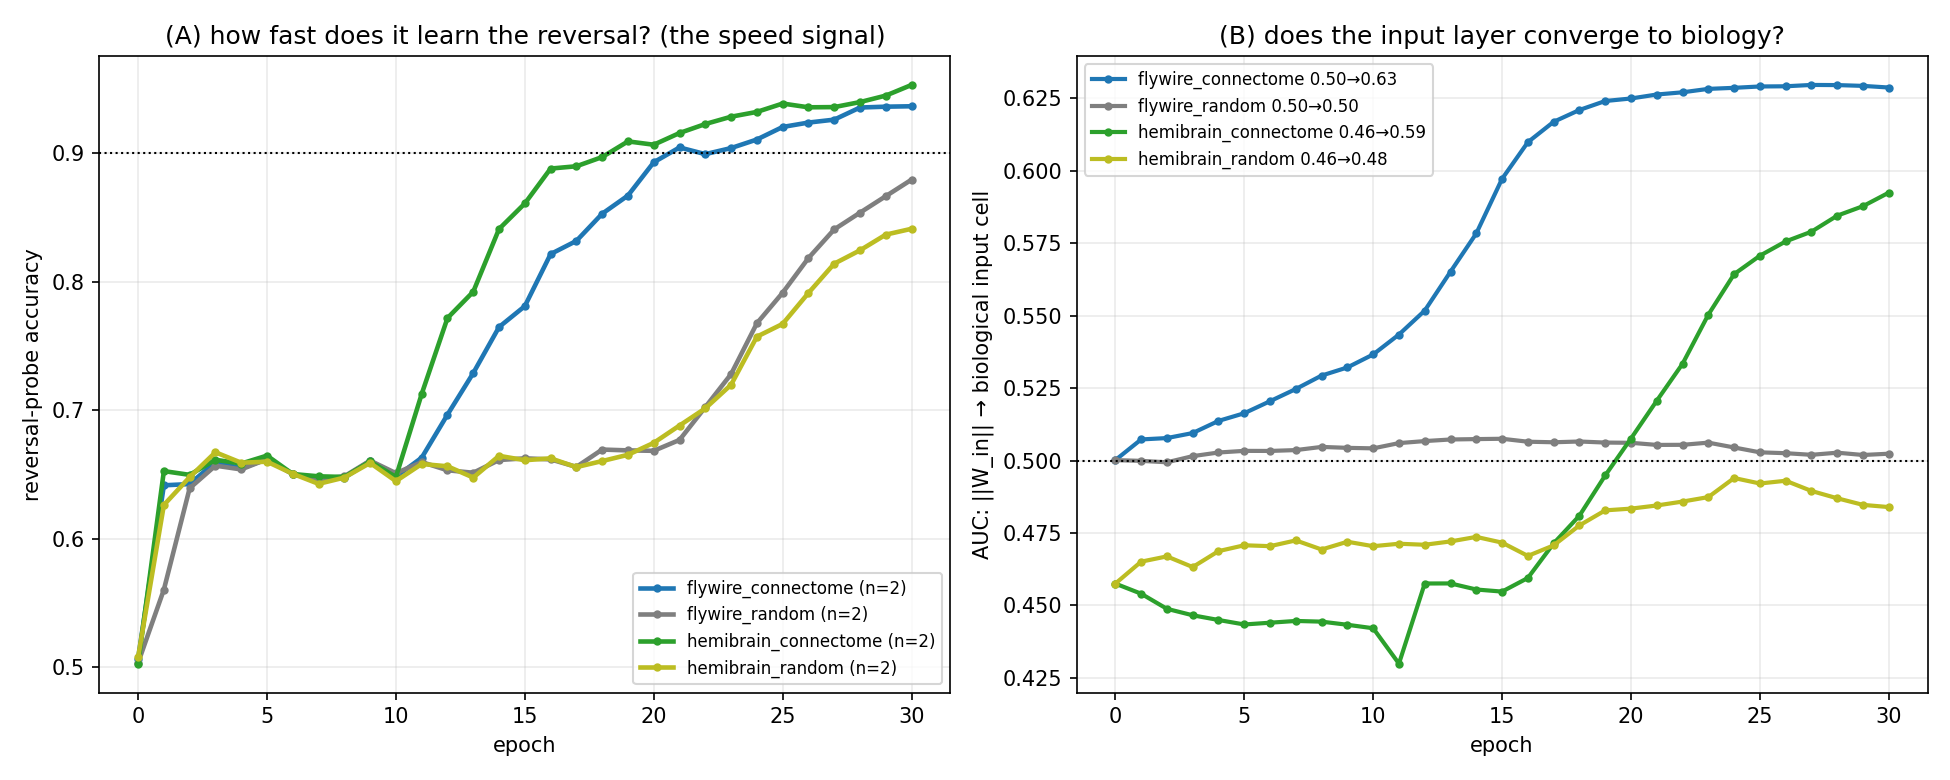
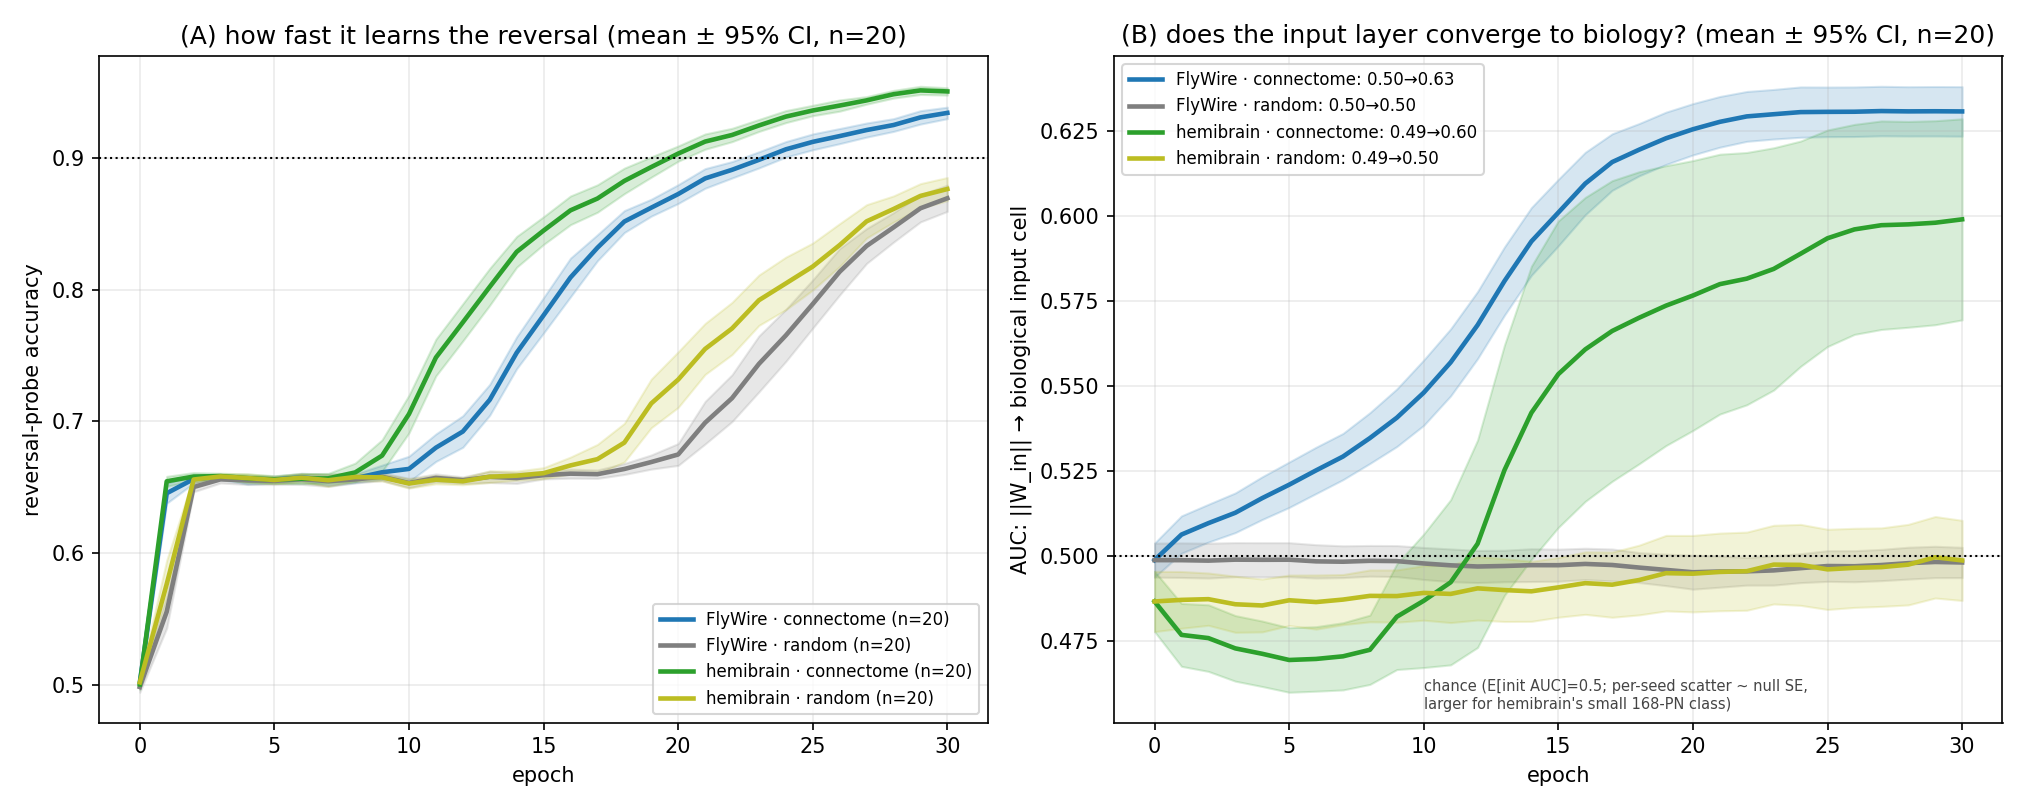
Regenerate native-task convergence figure with 20 seeds + 95% CI bands
Replaces the misleading 2-seed assoc_biology_convergence.png. CI bands make the
init asymmetry legible as noise width, not bias: FlyWire's large 1089-cell class
sits pinned at 0.50, hemibrain's small 168-PN class has ~2.5x wider bands and a
20-seed init of 0.487 (regresses to 0.4996 by 500 seeds). Updates stale 2-seed
'0.46->0.59' text to the 20-seed 0.49->0.60, adds figure caption noting the
class-size variance and the early KC/MBON transient.

Changed region(s): [[0.0308, 0.0308, 0.9846, 0.9846], [0.0, 0.3385, 0.0615, 0.6462], [0.0308, 0.1846, 0.0615, 0.2154]]

diff --git a/scripts/figures/plot_mb_biology_assoc_20seed.py b/scripts/figures/plot_mb_biology_assoc_20seed.py
@@ -1,0 +1,86 @@
+#!/usr/bin/env python3
+"""20-seed version of the MB native-task convergence figure (replaces the 2-seed
+assoc_biology_convergence.png). Mean +/- 95% CI bands over 20 seeds.
+
+(A) reversal-probe accuracy vs epoch (the speed signal) + epochs-to-0.9.
+(B) input-layer AUC (||W_in|| -> biological input cell) vs epoch, with chance line and an
+    honest init-baseline annotation (E[init AUC]=0.5; per-seed scatter ~ null SE).
+
+Reads outputs/runs/mb_biology_assoc_20seed/*.npz. Writes docs/results/mb_biology_convergence/.
+"""
+from __future__ import annotations
+import glob, re
+from collections import defaultdict
+from pathlib import Path
+import numpy as np
+from sklearn.metrics import roc_auc_score
+import matplotlib; matplotlib.use("Agg")
+import matplotlib.pyplot as plt
+
+OUT = Path("docs/results/mb_biology_convergence")
+ORDER = ["flywire_connectome", "flywire_random", "hemibrain_connectome", "hemibrain_random"]
+COL = {"flywire_connectome": "#1f77b4", "flywire_random": "#7f7f7f",
+       "hemibrain_connectome": "#2ca02c", "hemibrain_random": "#bcbd22"}
+LBL = {"flywire_connectome": "FlyWire · connectome", "flywire_random": "FlyWire · random",
+       "hemibrain_connectome": "hemibrain · connectome", "hemibrain_random": "hemibrain · random"}
+
+
+def bio_mask(d):
+    ty = d["coarse_type"].astype(str)
+    return (ty == "PN") if (ty == "PN").sum() > 10 else d["is_sensory"].astype(bool)
+
+
+def main():
+    by = defaultdict(list)
+    for f in sorted(glob.glob("outputs/runs/mb_biology_assoc_20seed/*.npz")):
+        by[re.sub(r"_s\d+$", "", Path(f).stem)].append(np.load(f, allow_pickle=True))
+    if not by:
+        print("no runs"); return 1
+    OUT.mkdir(parents=True, exist_ok=True)
+    order = [c for c in ORDER if c in by]
+    eps = by[order[0]][0]["snapshot_epochs"]
+
+    fig, (axA, axB) = plt.subplots(1, 2, figsize=(13.5, 5.4))
+
+    def mean_ci(M):                                  # M: [nseed, nep]
+        m = M.mean(0); se = M.std(0, ddof=1) / np.sqrt(M.shape[0]); return m, 1.96 * se
+
+    print(f"{'condition':<24}{'n':>3}{'init AUC':>10}{'final AUC':>12}{'epochs->0.9':>13}")
+    for c in order:
+        ds = by[c]; col = COL[c]
+        # (A) reversal accuracy
+        R = np.array([d["reversal_acc"] for d in ds])
+        m, ci = mean_ci(R)
+        axA.plot(eps, m, color=col, lw=2.2, label=f"{LBL[c]} (n={len(ds)})")
+        axA.fill_between(eps, m - ci, m + ci, color=col, alpha=.18)
+        e09 = next((int(eps[i]) for i in range(len(eps)) if m[i] >= 0.9), None)
+        # (B) input AUC trajectory (load each snapshot array once per seed)
+        def auc_traj(d):
+            nrm = np.linalg.norm(d["win_snapshots"], axis=2); b = bio_mask(d)
+            return [roc_auc_score(b, nrm[e]) for e in range(len(eps))]
+        A = np.array([auc_traj(d) for d in ds])
+        am, aci = mean_ci(A)
+        axB.plot(eps, am, color=col, lw=2.2, label=f"{LBL[c]}: {am[0]:.2f}→{am[-1]:.2f}")
+        axB.fill_between(eps, am - aci, am + aci, color=col, alpha=.18)
+        print(f"{c:<24}{len(ds):>3}{am[0]:>10.3f}{am[-1]:>12.3f}{(str(e09) if e09 else 'never'):>13}")
+
+    axA.axhline(0.9, color="k", ls=":", lw=1)
+    axA.set_xlabel("epoch"); axA.set_ylabel("reversal-probe accuracy")
+    axA.set_title("(A) how fast it learns the reversal (mean ± 95% CI, n=20)")
+    axA.legend(fontsize=8, loc="lower right"); axA.grid(alpha=.25)
+
+    axB.axhline(0.5, color="k", ls=":", lw=1)
+    axB.annotate("chance (E[init AUC]=0.5; per-seed scatter ~ null SE,\n"
+                 "larger for hemibrain's small 168-PN class)",
+                 xy=(eps[len(eps)//3], 0.5), xytext=(eps[len(eps)//3], 0.455),
+                 fontsize=7, color="#444", ha="left")
+    axB.set_xlabel("epoch"); axB.set_ylabel("AUC: ||W_in|| → biological input cell")
+    axB.set_title("(B) does the input layer converge to biology? (mean ± 95% CI, n=20)")
+    axB.legend(fontsize=8, loc="upper left"); axB.grid(alpha=.25)
+
+    fig.tight_layout(); fig.savefig(OUT / "assoc_biology_convergence.png", dpi=150); plt.close(fig)
+    print(f"\nwrote {OUT/'assoc_biology_convergence.png'}")
+
+
+if __name__ == "__main__":
+    raise SystemExit(main())

diff --git a/docs/results/mb_biology_convergence/README.md b/docs/results/mb_biology_convergence/README.md
@@ -6,7 +6,7 @@ give it a **free** input projection `W_in` (every neuron gets a *random* input w
 built-in link to which neurons are the biological input cells), and train it. **On the MB's *native*
 task (odor→reward with reversals), the network spontaneously rotates its initially-random input
 projection onto the connectome's real biological input neurons — the projection neurons (PNs) — *as it
-learns the task*.** The input layer's alignment to PNs rises from chance (AUC 0.46) to **0.59**, the
+learns the task*.** The input layer's alignment to PNs rises from chance (AUC ≈0.49 at n=20; 0.50 in expectation) to **0.60**, the
 connectome learns the task **~2× faster** than a random-wired control, and the alignment **tracks the
 learning curve** (it rises exactly when the task is being mastered).
 
@@ -18,6 +18,12 @@ descent, but only when the task actually needs that pathway.
 
 ![task dependence](task_dependence.png)
 ![native-task convergence](assoc_biology_convergence.png)
+
+*Native-task convergence, n=20 with 95% CI bands. Note the hemibrain (green) CI band is ~2.5× wider
+than FlyWire (blue) at init: that is the small 168-PN positive class, not a bias — E[init AUC]=0.5
+(FlyWire's larger class sits exactly there; hemibrain's 20-seed batch rolled to 0.487 and regresses to
+0.4996 by 500 seeds). The early green dip to ~0.47 is a real transient (input transiently routes to
+KC/MBON before reorganizing onto PNs). See the baseline diagnostic below.*
 
 ## Why this is interesting
 - It's a clean, **controlled** instance of "an AI rediscovers biological structure": not "any trained
@@ -62,14 +68,15 @@ as the connectome, scattered at uniformly random positions — Erdős–Rényi-s
    reconstruct the trained net, run task inputs, and correlate per-neuron **activation-RMS** (dynamical
    importance) with **biological hub-strength**.
 
-Seeds: native task 2/condition (FlyWire+hemibrain × connectome+random); MQAR 1–2.
+Seeds: native task **20/condition** (FlyWire+hemibrain × connectome+random; main figure + Robustness
+section); MQAR 1–2.
 
 ## Results
 **Input-layer AUC (‖W_in‖ → biological input neurons), init → final:**
 | condition | **MQAR** (arbitrary) | **native odor task** |
 |---|---|---|
-| hemibrain · connectome (**PNs, cell-type-grounded**) | **0.50 → 0.50** (null) | **0.46 → 0.59** ✅ |
-| hemibrain · random | 0.50 → 0.48 | 0.46 → 0.48 |
+| hemibrain · connectome (**PNs, cell-type-grounded**) | **0.50 → 0.50** (null) | **0.49 → 0.60** ✅ (n=20) |
+| hemibrain · random | 0.50 → 0.48 | 0.49 → 0.50 (n=20) |
 | FlyWire · connectome (sensory *proxy*) | 0.50 → 0.60 | 0.50 → 0.63 |
 | FlyWire · random | 0.50 → 0.51 | 0.50 → 0.50 |
 
